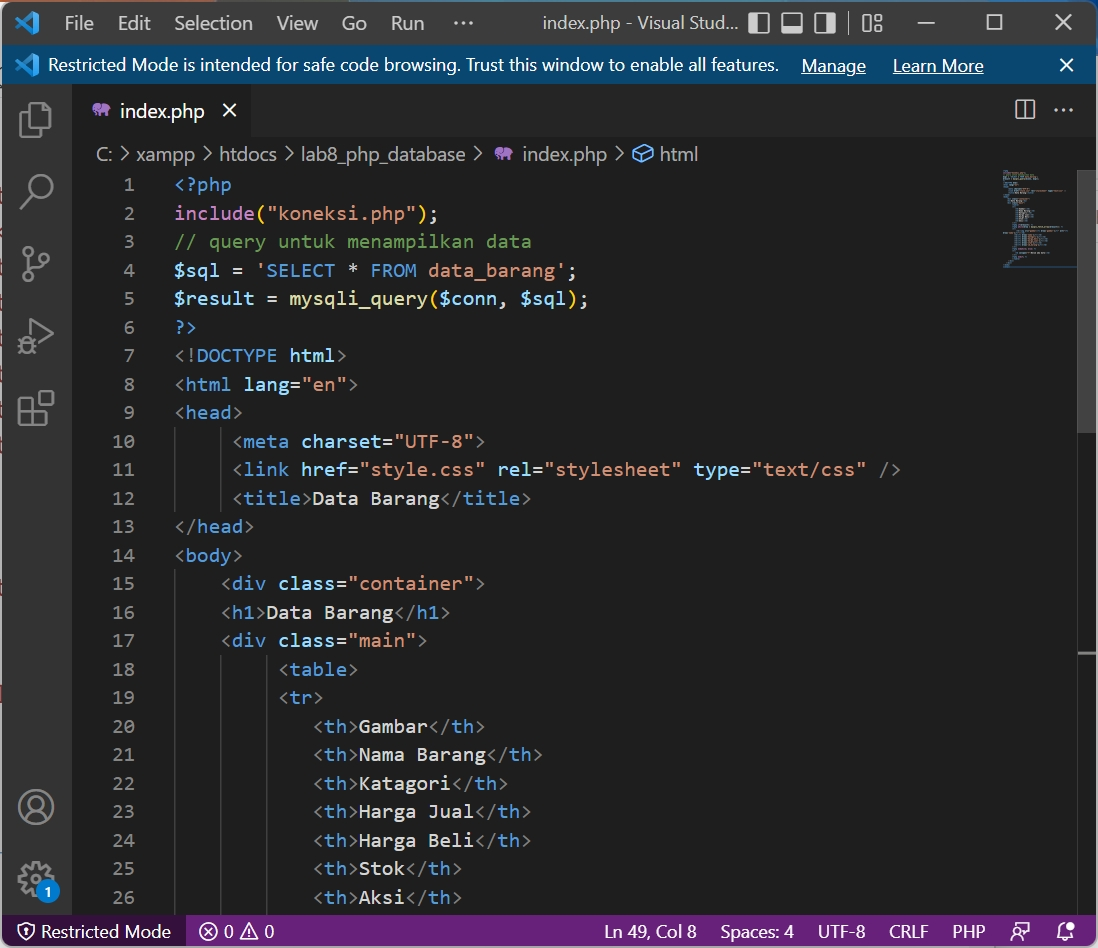
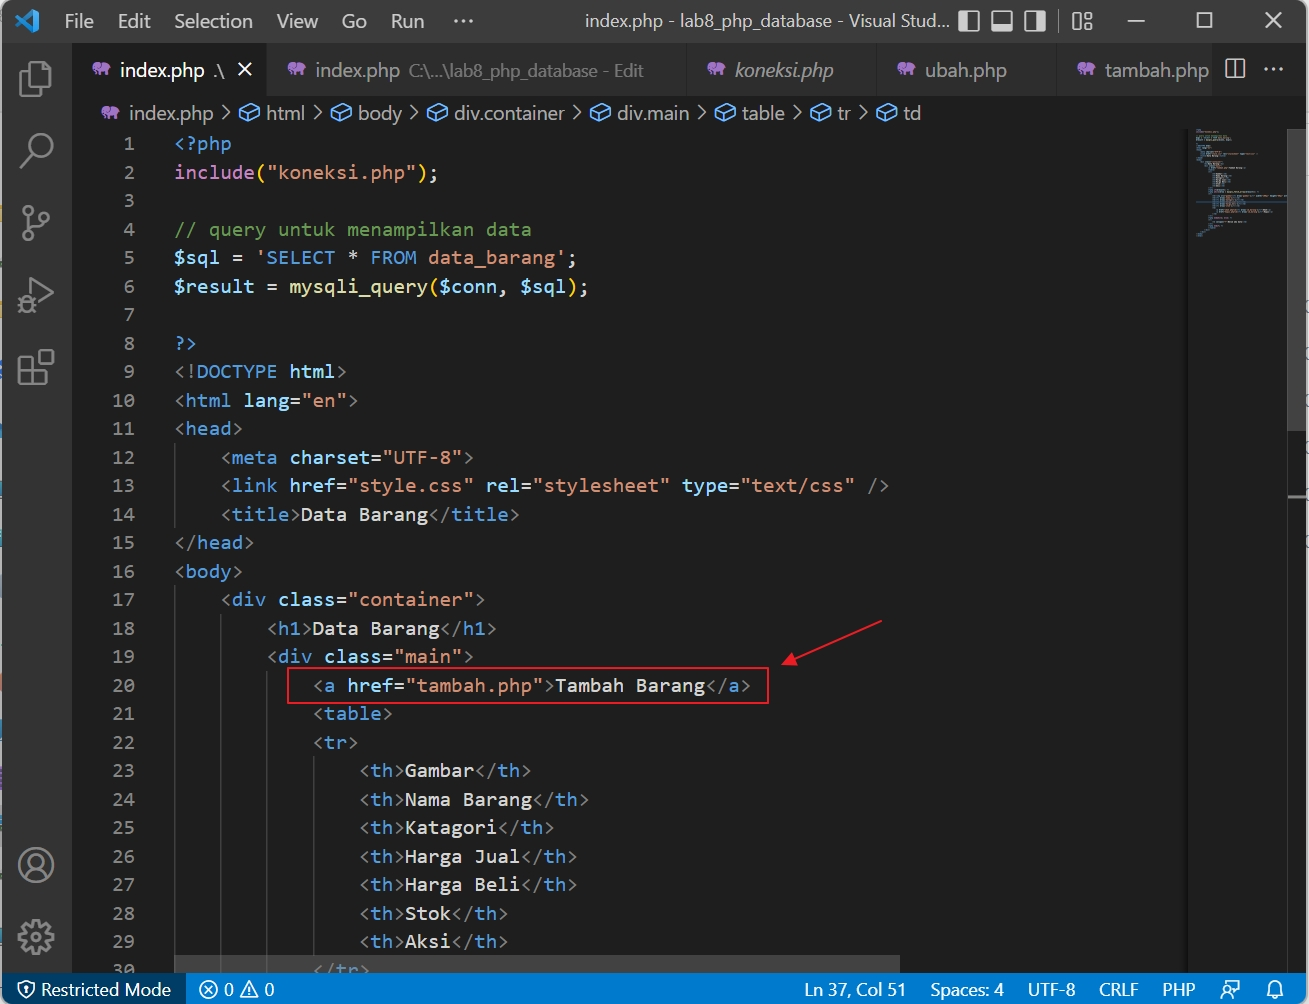
08_Lab8Web Pemrograman Web PHP dan Database MySQL Rev1 Tampilan Gambar

Changed region(s): [[0.0, 0.0, 1.0, 1.0], [0.0, 0.8259, 0.0619, 0.8871], [0.6503, 0.6118, 0.6812, 0.6424]]

diff --git a/lab8_php_database/ubah.php b/lab8_php_database/ubah.php
@@ -10,10 +10,10 @@ if (isset($_POST['submit']))
     $harga_jual = $_POST['harga_jual'];
     $harga_beli = $_POST['harga_beli'];
     $stok = $_POST['stok'];
-    $file_gambar = $_FILES['file_gambar'];
+    $file_gambar = $_FILES['gambar'];
     $gambar = null;
 
-    if ($file_gambar['error'] == 0)
+    if ($gambar['error'] == 0)
     {
         $filename = str_replace(' ', '_', $file_gambar['name']);
         $destination = dirname(__FILE__) . '/gambar/' . $filename;
@@ -26,8 +26,8 @@ if (isset($_POST['submit']))
     $sql = 'UPDATE data_barang SET ';
     $sql .= "nama = '{$nama}', kategori = '{$kategori}', ";
     $sql .= "harga_jual = '{$harga_jual}', harga_beli = '{$harga_beli}', stok = '{$stok}' ";
-    if (!empty($gambar))
-        $sql .= ", gambar = '{$gambar}' ";
+    if (!empty($filename))
+        $sql .= ", gambar = '{$filename}' ";
     $sql .= "WHERE id_barang = '{$id}'";
     $result = mysqli_query($conn, $sql);
 
@@ -84,7 +84,7 @@ if (isset($_POST['submit']))
             </div>
             <div class="input">
                 <label>File Gambar</label>
-                <input type="file" name="file_gambar" />
+                <input type="file" name="gambar" />
             </div>
             <div class="submit">
                 <input type="hidden" name="id" value="<?php echo $data['id_barang'];?>" />

diff --git a/lab8_php_database/index.php b/lab8_php_database/index.php
@@ -31,7 +31,7 @@ $result = mysqli_query($conn, $sql);
             <?php if($result): ?>
             <?php while($row = mysqli_fetch_array($result)): ?>
             <tr>
-                <td><img src="gambar/<?= $row['gambar'];?>" alt="<?=$row['nama'];?>"></td>
+                <td><img src="gambar/<?= $row['gambar'];?>" width="100px" height="80px" alt="<?= $row['nama'];?>" ></td>
                 <td><?= $row['nama'];?></td>
                 <td><?= $row['kategori'];?></td>
                 <td><?= $row['harga_jual'];?></td>

diff --git a/lab8_php_database/tambah.php b/lab8_php_database/tambah.php
@@ -23,7 +23,7 @@ if (isset($_POST['submit']))
     }
     
     $sql = 'INSERT INTO data_barang (nama, kategori, harga_jual, harga_beli, stok, gambar) ';
-    $sql .= "VALUE ('{$nama}', '{$kategori}','{$harga_jual}','{$harga_beli}', '{$stok}', '{$gambar}')";
+    $sql .= "VALUE ('{$nama}', '{$kategori}','{$harga_jual}','{$harga_beli}', '{$stok}', '{$filename}')";
     $result = mysqli_query($conn, $sql);
     header('location: index.php');
 }

diff --git a/README.md b/README.md
@@ -157,7 +157,7 @@ $result = mysqli_query($conn, $sql);
             <?php if($result): ?>
             <?php while($row = mysqli_fetch_array($result)): ?>
             <tr>
-                <td><img src="gambar/<?= $row['gambar'];?>" alt="<?=$row['nama'];?>"></td>
+                <td><img src="gambar/<?= $row['gambar'];?>" width="100px" height="80px" alt="<?= $row['nama'];?>" ></td>
                 <td><?= $row['nama'];?></td>
                 <td><?= $row['kategori'];?></td>
                 <td><?= $row['harga_jual'];?></td>
@@ -179,6 +179,14 @@ $result = mysqli_query($conn, $sql);
 </body>
 </html>
 ~~~
+>Saya Tambahkan untuk code program **Tambah Barang** :
+~~~
+<a href="tambah.php">Tambah Barang</a>
+~~~
+>Dan di tambahkan Code Size Gambar :
+~~~
+<td><img src="gambar/<?= $row['gambar'];?>" width="100px" height="80px" alt="<?= $row['nama'];?>" ></td>
+~~~
 
 ![08_Lab8Web](Gambar/11.Gambar_Code_index_menampilkan_data.jpg)
 ![08_Lab8Web](Gambar/11.Gambar_Code_index_menampilkan_data1.jpg)
@@ -194,6 +202,10 @@ Gambar 08. Tampilan index
 
 **Menambah Data (Create)**
 Buat file baru dengan nama **tambah.php**
+
+Sebelumnya kita buat Folder gambar di htdoct > lab8_php_database.Fungsinya untuk menyimpan gambar yang kita mengambil gambar.<br>
+![08_Lab8Web](Gambar/30.Gambar_Folder_Gambar.jpg)
+
 ~~~
 <?php
 error_reporting(E_ALL);
@@ -220,7 +232,7 @@ if (isset($_POST['submit']))
     }
     
     $sql = 'INSERT INTO data_barang (nama, kategori, harga_jual, harga_beli, stok, gambar) ';
-    $sql .= "VALUE ('{$nama}', '{$kategori}','{$harga_jual}','{$harga_beli}', '{$stok}', '{$gambar}')";
+    $sql .= "VALUE ('{$nama}', '{$kategori}','{$harga_jual}','{$harga_beli}', '{$stok}', '{$filename}')";
     $result = mysqli_query($conn, $sql);
     header('location: index.php');
 }
@@ -307,10 +319,10 @@ if (isset($_POST['submit']))
     $harga_jual = $_POST['harga_jual'];
     $harga_beli = $_POST['harga_beli'];
     $stok = $_POST['stok'];
-    $file_gambar = $_FILES['file_gambar'];
+    $file_gambar = $_FILES['gambar'];
     $gambar = null;
 
-    if ($file_gambar['error'] == 0)
+    if ($gambar['error'] == 0)
     {
         $filename = str_replace(' ', '_', $file_gambar['name']);
         $destination = dirname(__FILE__) . '/gambar/' . $filename;
@@ -323,8 +335,8 @@ if (isset($_POST['submit']))
     $sql = 'UPDATE data_barang SET ';
     $sql .= "nama = '{$nama}', kategori = '{$kategori}', ";
     $sql .= "harga_jual = '{$harga_jual}', harga_beli = '{$harga_beli}', stok = '{$stok}' ";
-    if (!empty($gambar))
-        $sql .= ", gambar = '{$gambar}' ";
+    if (!empty($filename))
+        $sql .= ", gambar = '{$filename}' ";
     $sql .= "WHERE id_barang = '{$id}'";
     $result = mysqli_query($conn, $sql);
 
@@ -381,7 +393,7 @@ if (isset($_POST['submit']))
             </div>
             <div class="input">
                 <label>File Gambar</label>
-                <input type="file" name="file_gambar" />
+                <input type="file" name="gambar" />
             </div>
             <div class="submit">
                 <input type="hidden" name="id" value="<?php echo $data['id_barang'];?>" />
